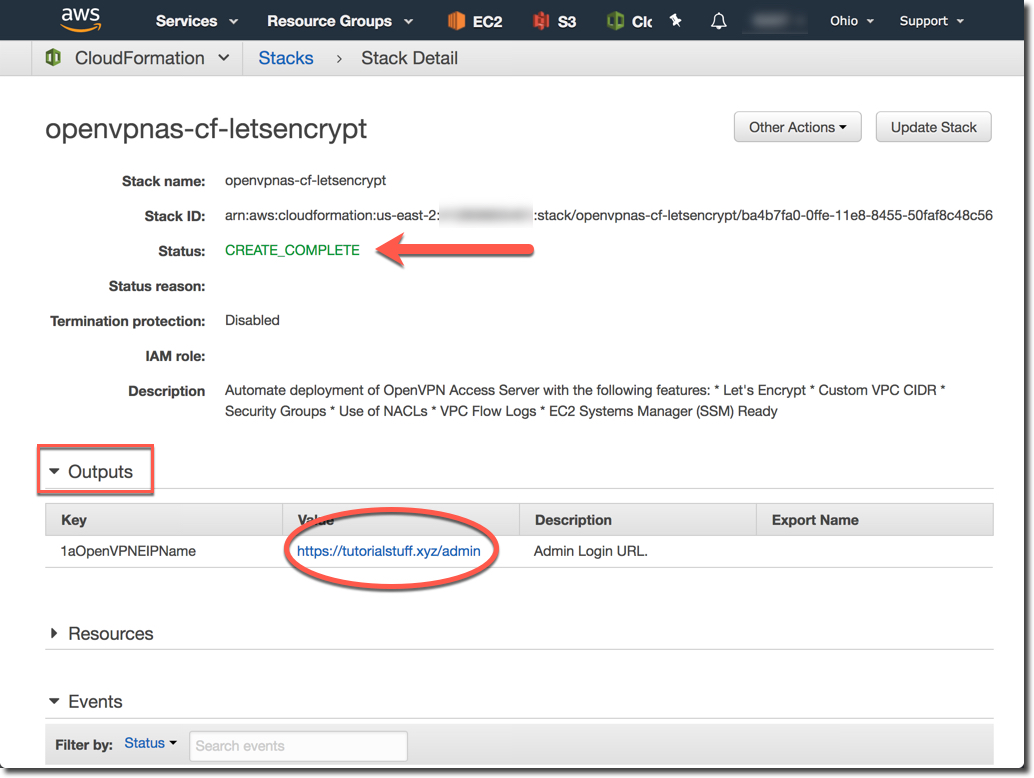
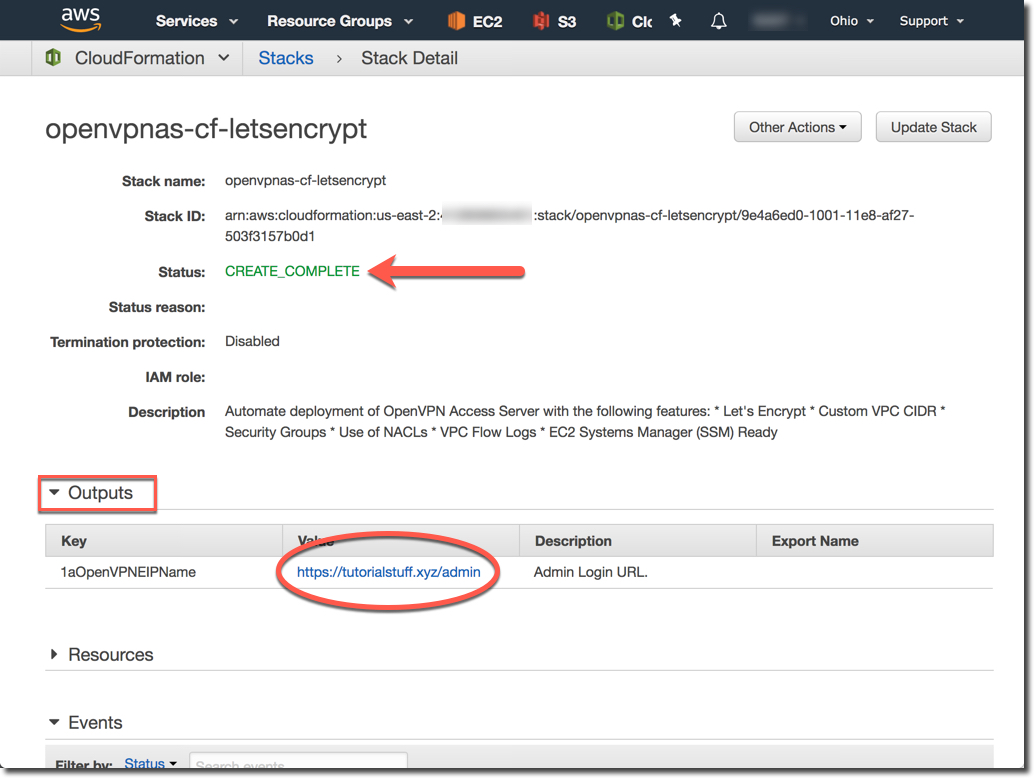
Finish deploy section and images.

diff --git a/README.md b/README.md
@@ -83,8 +83,37 @@ Enter a source IP address for connecting to the OpenVPN AS web UI. You can leave
 Enter a unique username for the web UI administrator account and a reference to the other SSM secure string for the secure password.
 
 Click **Next** and follow the prompts to deploy the stack.
+
 <p align="center">
 <img src="https://github.com/virtualjj/automated-openvpnas-cloudflare-letsencrypt/blob/master/images/readme/deploy-lock-ip-secure-string-passwd.jpg" alt="Enter a source IP for connecting to the OpenVPN AS web UI and choose a unique username as well as a SSM secure string for the admin password."="75%" width="75%">
 </p>
 
 The stack, instance, CloudFlare DNS update, and Let's Encrypt certificate should be complete in about five minutes.
+
+<p align="center">
+<img src="https://github.com/virtualjj/automated-openvpnas-cloudflare-letsencrypt/blob/master/images/readme/deploy-success-outputs-url.jpg" alt="Successful stack deployment. Find the web UI URL in the Outputs section."="75%" width="75%">
+</p>
+
+If you look in your CloudFlare DNS panel, you should see a new A record added. Note that the CloudFlare icon is grey and not orange. This means that CloudFlare is only providing DNS services and not DDoS and other protections.
+
+<p align="center">
+<img src="https://github.com/virtualjj/automated-openvpnas-cloudflare-letsencrypt/blob/master/images/readme/deploy-new-a-record-cloudflare.jpg" alt="New A record in CloudFlare after stack deployment."="75%" width="75%">
+</p>
+
+Click on the URL listed in the CloudFormation Outputs section. Your OpenVPN AS should have a Let's Encrypt certificate installed and working now:
+
+<p align="center">
+<img src="https://github.com/virtualjj/automated-openvpnas-cloudflare-letsencrypt/blob/master/images/readme/deploy-le-certificate-sample.jpg" alt="Newly applied Let's Encrypt certificate on OpenVPN AS"="75%" width="75%">
+</p>
+
+When you login, make sure to enter the actual password that you set in the SSM secure string. At this point, the OpenVPN AS web UI doesn't know anything about the SSM secure string parameter.
+
+<p align="center">
+<img src="https://github.com/virtualjj/automated-openvpnas-cloudflare-letsencrypt/blob/master/images/readme/deploy-first-time-login-screen.jpg" alt="Login to OpenVPN AS with password, not SSM secure string ID"="75%" width="75%">
+</p>
+
+After successful login you'll have to agree to the EULA and then the status screen should appear. You can now configure your OpenVPN AS for use.
+
+<p align="center">
+<img src="https://github.com/virtualjj/automated-openvpnas-cloudflare-letsencrypt/blob/master/images/readme/deploy-login-success-status-screen.jpg" alt="Successful login to OpenVPN AS"="75%" width="75%">
+</p>
